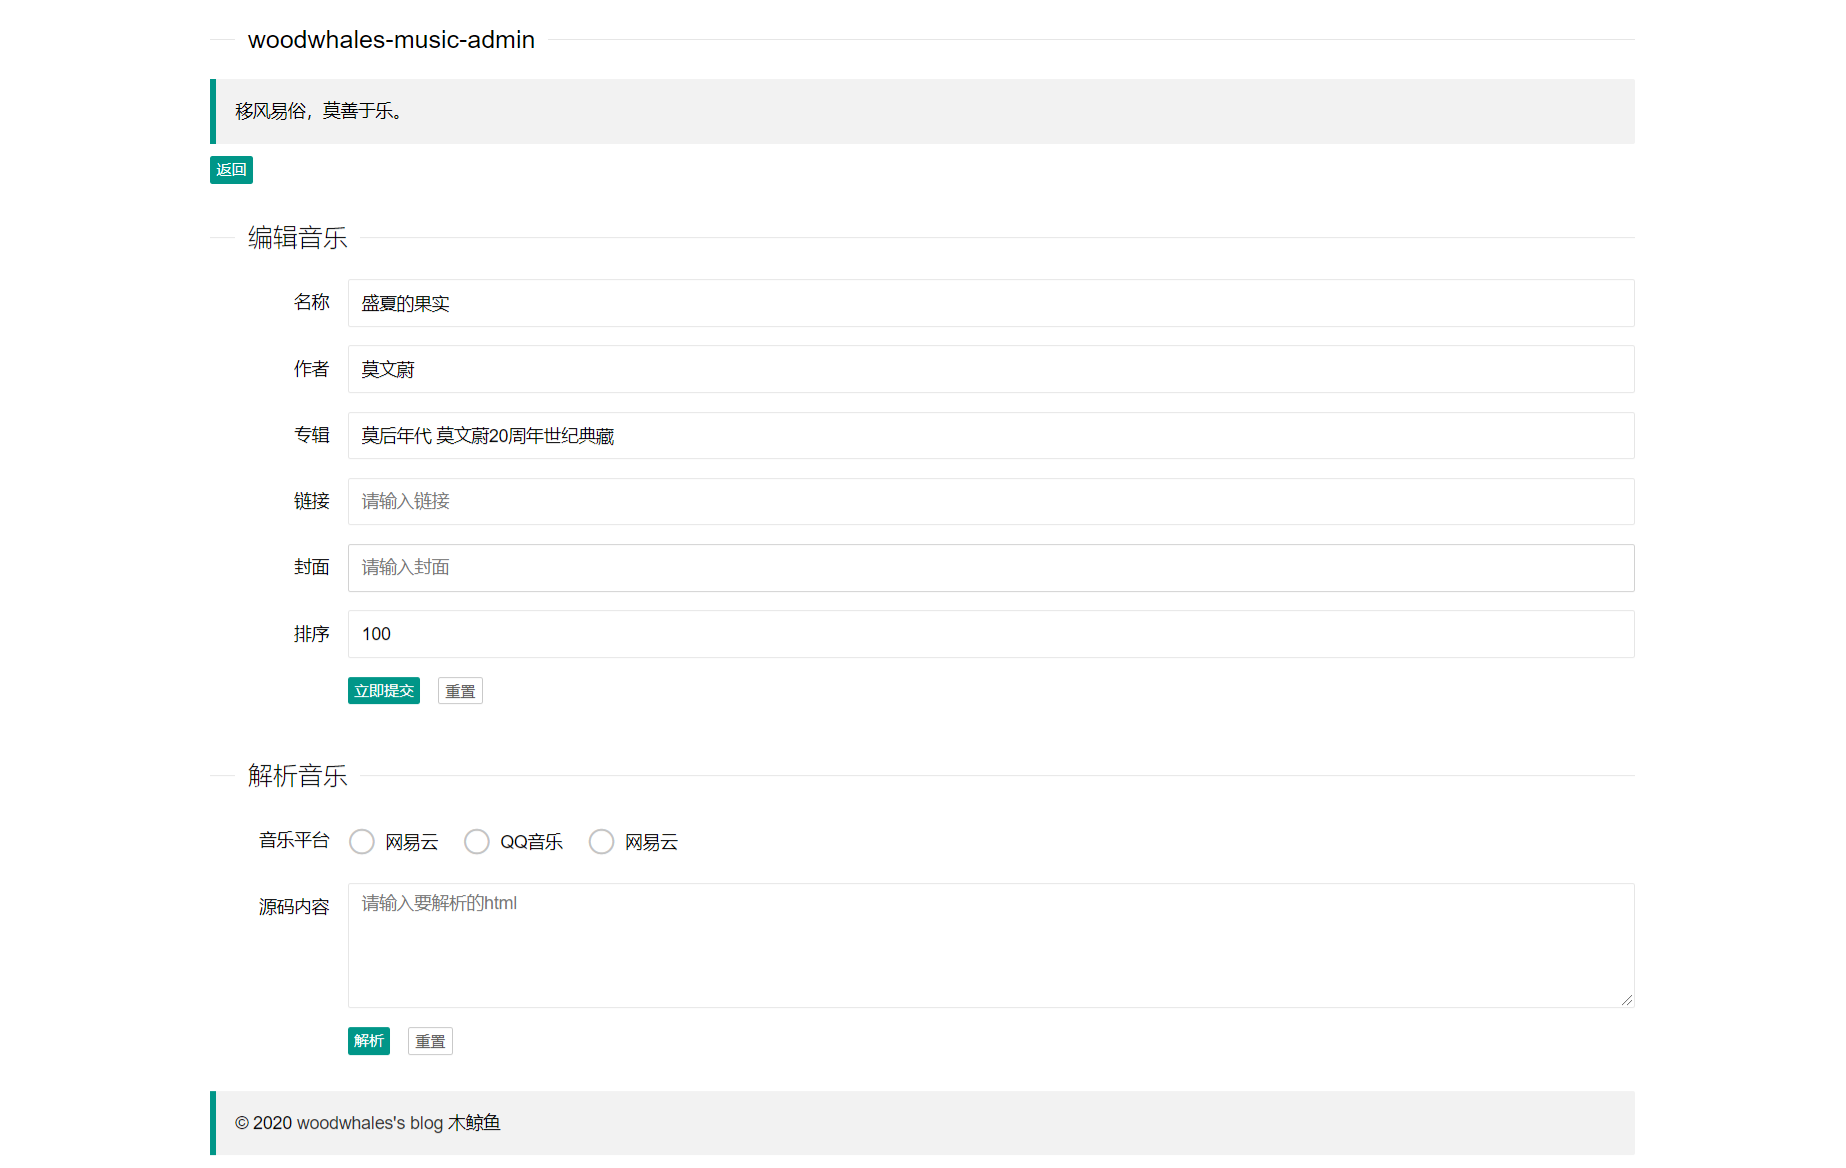
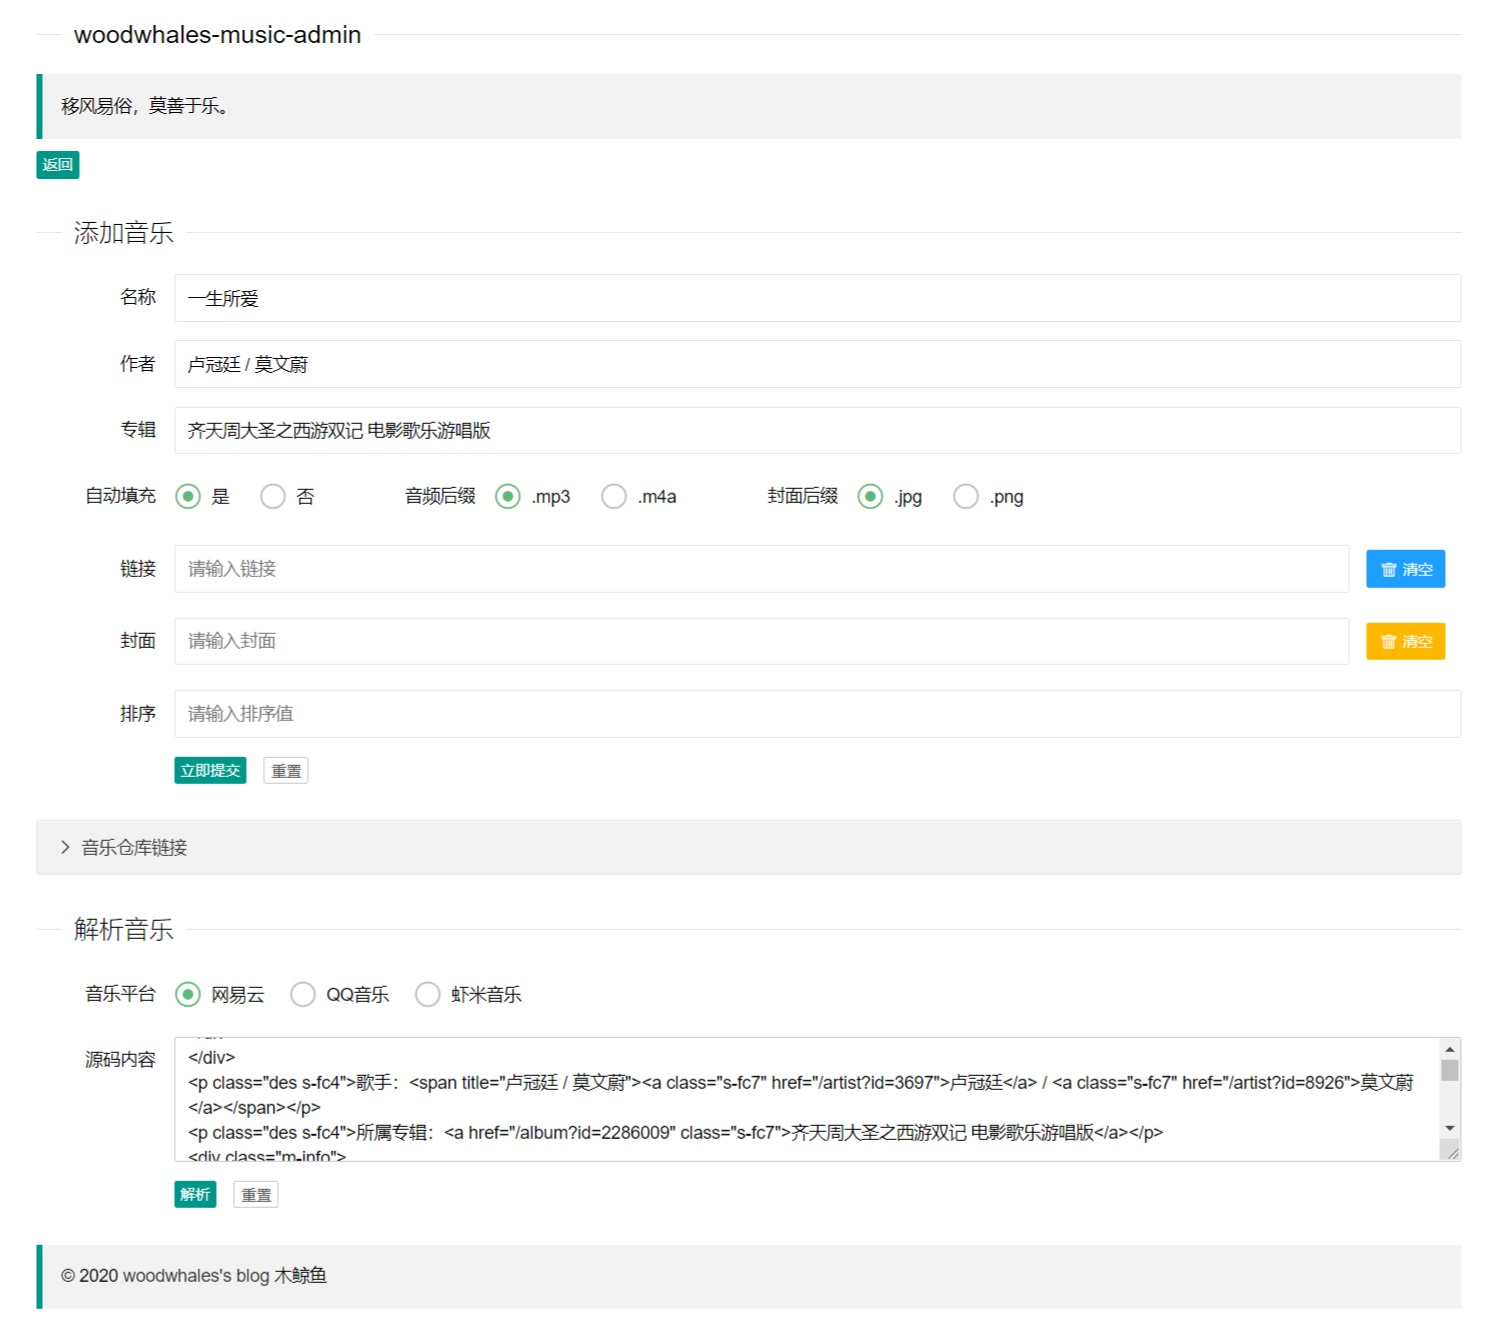
updated readme.md

diff --git a/README.md b/README.md
@@ -1,6 +1,6 @@
 # woodwhales-music
 
-[![](https://img.shields.io/badge/Author-woodwhales-green.svg)](https://woodwhales.cn/) ![](https://img.shields.io/badge/License-GPL%203.0-orange.svg)
+[![](https://img.shields.io/badge/author-woodwhales-green.svg)](https://woodwhales.cn/) ![](https://img.shields.io/badge/license-GPL%203.0-orange.svg)
 
 > 基于 SpringBoot 的开源超简洁音乐播放器
 
@@ -15,9 +15,15 @@
 
 ## 功能说明
 
+### 1.0.0
+
 -   前端页面加载完毕，可离线播放。
 -   后台系统可添加、编辑、删除音乐，并对音乐列表排序。
--   添加音乐：可从音乐平台 html 动态解析，目前支持：网易云、QQ云音乐、虾米音乐。
+-   添加音乐：可从音乐平台 html 动态解析，支持：网易云、QQ云音乐、虾米音乐（平台已关闭）。
+
+### 2.0.0
+
+-   添加、编辑音乐信息时，当填写了音乐链接或者封面链接其中之一后，可自动填充另外一个文本内容。
 
 ## 前台
 
@@ -43,7 +49,7 @@ dev 环境账号密码：admin / admin
 
 太懒了，加了个解析音乐平台的解析器，一旦解析成功，自动填充：音乐名称、作者、专辑名称。
 
-> 目前仅支持：网易云平台。
+> 支持：网易云、QQ 音乐、虾米音乐（平台已关闭）
 
 ![](doc/images/admin-add.png)
 
@@ -73,5 +79,4 @@ class 为：`page-container`的 html 源码
 
 ![](doc/images/admin-add-xiami.png)
 
-歌单
-
+## 歌单
